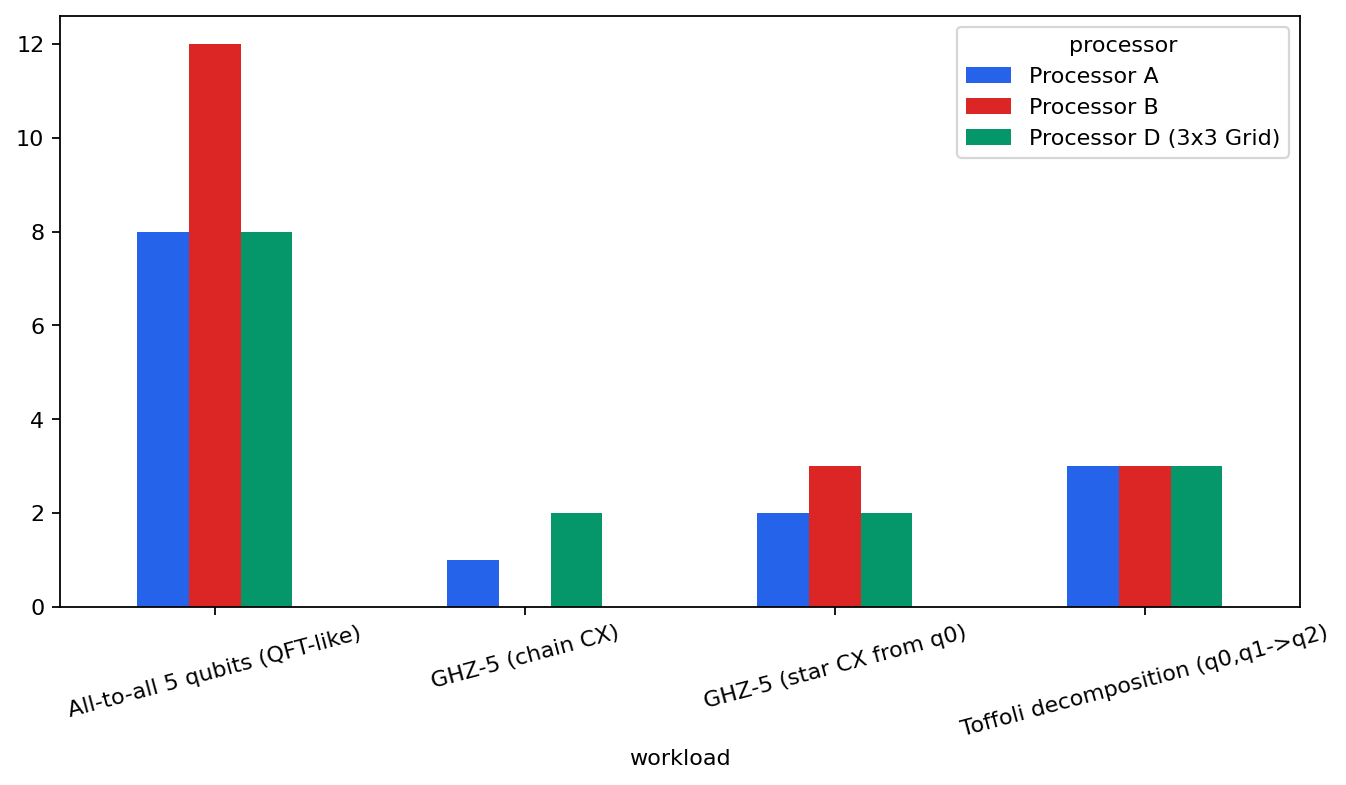
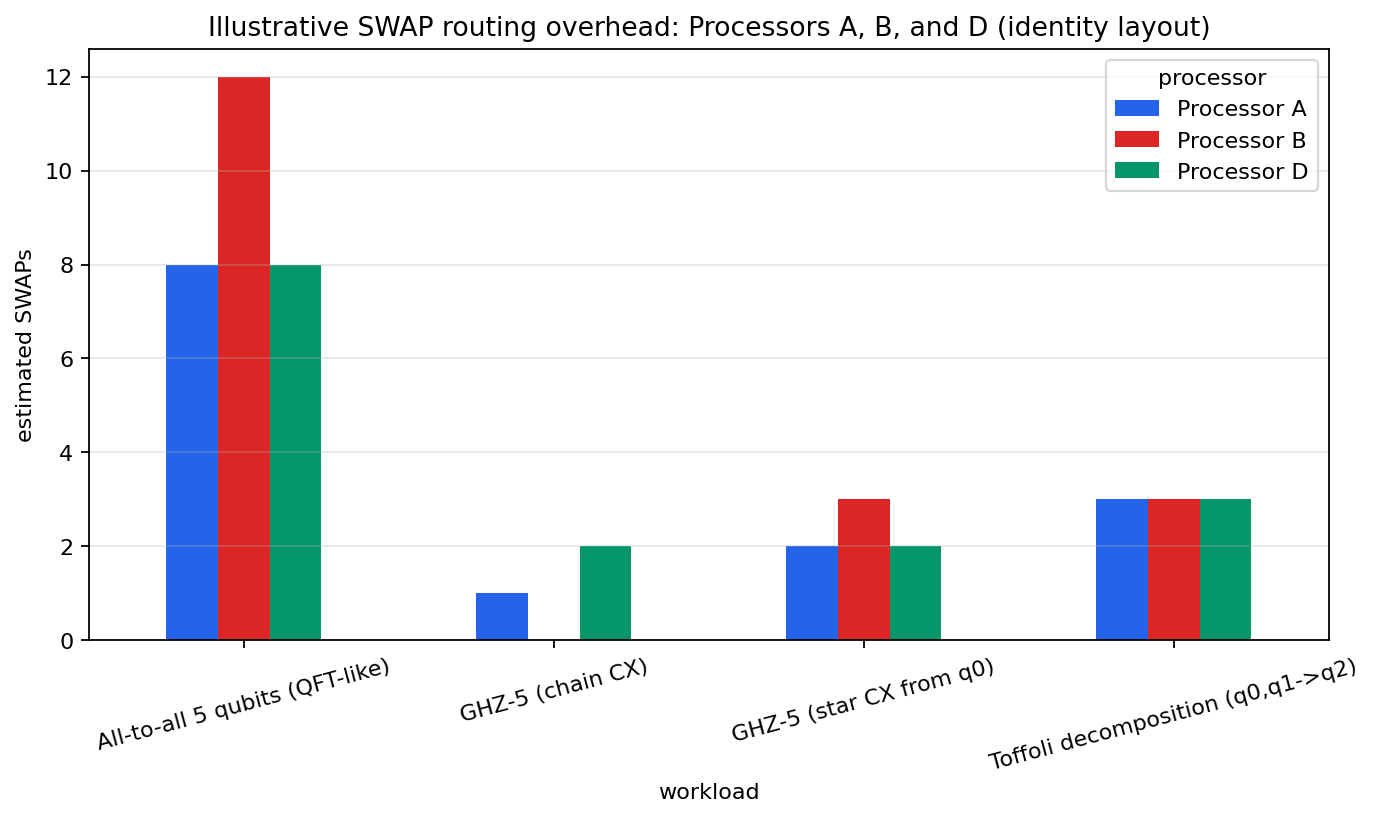
refactor(routing): eliminate duplicate topologies in routing estimate and metrics tables
- Streamline routing_estimate.csv from 36 to 12 rows across Processors A, B, and D
- Remove redundant 3x3 grid duplicate from processor_graph_metrics.csv
- Update fig_routing in visualization.py to directly plot cleaned processor list
- Synchronize code size metrics and logical line counts in report.md

diff --git a/src/routing.py b/src/routing.py
@@ -198,7 +198,7 @@ def processor_graph_table() -> pd.DataFrame:
             continue
         rows.append({"processor": f"Candidate A: {t_info['name']}", "required": False, **graph_metrics(build_graph(t_info["coupling_map"], 5))})
     for t_key, t_info in CANDIDATE_TOPOLOGIES["B"].items():
-        if t_key == "mesh_baseline":
+        if t_key in ("mesh_baseline", "grid_3x3"):
             continue
         rows.append({"processor": f"Candidate B: {t_info['name']}", "required": False, **graph_metrics(build_graph(t_info["coupling_map"], 9))})
     rows.append({"processor": "Processor C (study only)", "required": False, **graph_metrics(build_graph(PROCESSOR_C_STUDY, 13))})
@@ -292,32 +292,19 @@ ILLUSTRATIVE_WORKLOADS = {
 
 def routing_estimate_table() -> pd.DataFrame:
     rows = []
-    for key in ("A", "B"):
+    for key in ("A", "B", "D"):
         proc = load_processor(key)
         g = build_graph(proc["coupling_map"], proc["num_qubits"])
         for name, gates in ILLUSTRATIVE_WORKLOADS.items():
             sw = greedy_swap_count(g, gates)
-            rows.append({"workload": name, "processor": f"Processor {key}", "logical_2q_gates": len(gates),
-                         "swaps_estimate": sw, "cx_estimate": len(gates) + 3 * sw,
-                         "method": f"identity layout, {proc.get('topology', 'custom')}"})
-    # Comparative candidate analysis as requested by organizers
-    proc_d = load_processor("D")
-    topos_to_compare = [
-        ("A - 2016 Reference (Required)", CANDIDATE_TOPOLOGIES["A"]["reference_2016"]["coupling_map"], 5),
-        ("A - Chain (optional candidate)", CANDIDATE_TOPOLOGIES["A"]["chain_baseline"]["coupling_map"], 5),
-        ("A - Ring (optional candidate)", CANDIDATE_TOPOLOGIES["A"]["ring"]["coupling_map"], 5),
-        ("B - Mesh-Loop (Required)", CANDIDATE_TOPOLOGIES["B"]["mesh_baseline"]["coupling_map"], 9),
-        ("B - Sparse Tree (optional candidate)", CANDIDATE_TOPOLOGIES["B"]["tree_sparse"]["coupling_map"], 9),
-        ("B - 3x3 Grid (optional candidate)", CANDIDATE_TOPOLOGIES["B"]["grid_3x3"]["coupling_map"], 9),
-        ("D - 3x3 Grid (team design)", proc_d["coupling_map"], proc_d["num_qubits"]),
-    ]
-    for topo_name, cm, nq in topos_to_compare:
-        g = build_graph(cm, nq)
-        for name, gates in ILLUSTRATIVE_WORKLOADS.items():
-            sw = greedy_swap_count(g, gates)
-            rows.append({"workload": name, "processor": topo_name, "logical_2q_gates": len(gates),
-                         "swaps_estimate": sw, "cx_estimate": len(gates) + 3 * sw,
-                         "method": "candidate comparison"})
+            rows.append({
+                "workload": name,
+                "processor": f"Processor {key}",
+                "logical_2q_gates": len(gates),
+                "swaps_estimate": sw,
+                "cx_estimate": len(gates) + 3 * sw,
+                "method": f"identity layout, {proc.get('topology', 'custom')}",
+            })
     return pd.DataFrame(rows)
 
 

diff --git a/src/visualization.py b/src/visualization.py
@@ -222,16 +222,17 @@ def fig_routing() -> Path | None:
     df = _csv("routing_estimate.csv")
     if df is None or df.empty:
         return None
-    valid = ["Processor A", "Processor B", "D - 3x3 Grid (team design)"]
+    valid = ["Processor A", "Processor B", "Processor D"]
     df = df[df.processor.isin(valid)].copy()
     if df.empty:
         return None
-    rename_map = {"D - 3x3 Grid (team design)": "Processor D (3x3 Grid)"}
-    df["processor"] = df["processor"].replace(rename_map)
     piv = df.pivot(index="workload", columns="processor", values="swaps_estimate")
-    cols = [c for c in ["Processor A", "Processor B", "Processor D (3x3 Grid)"] if c in piv.columns]
+    cols = [c for c in ["Processor A", "Processor B", "Processor D"] if c in piv.columns]
     piv = piv[cols]
     ax = piv.plot.bar(figsize=(10, 4.8), color=["#2563eb", "#dc2626", "#059669"], rot=15)
+    ax.set_ylabel("estimated SWAPs")
+    ax.set_title("Illustrative SWAP routing overhead: Processors A, B, and D (identity layout)")
+    ax.grid(axis="y", alpha=0.3)
     # Save AB-only baseline comparison
     cols_ab = [c for c in ["Processor A", "Processor B"] if c in piv.columns]
     if cols_ab:

diff --git a/report.md b/report.md
@@ -72,7 +72,7 @@ The hybrid combiner (concatenate both secrets, then HKDF with the transcript) fo
 * **Bytes exchanged:** every byte the client sends and receives, including 4-byte frame headers.
 * **RAM:** Python-heap peak (`tracemalloc`) while moving the payload, plus process RSS growth. The heap peak is the primary number because
   RSS growth hides small working sets when the allocator reuses pages.
-* **Code size:** logical (non-blank, non-comment) lines per module; regenerated after the backend and topology updates: `process.py` has 698 lines and `src/` totals 1,982 lines (`results/tables/code_size.csv`).
+* **Code size:** logical (non-blank, non-comment) lines per module; regenerated after the backend and topology updates: `process.py` has 698 lines and `src/` totals 1,971 lines (`results/tables/code_size.csv`).
 * Payloads: organizer files in `data/raw/` are used if present; otherwise deterministic stand-ins of 1 KB, 100 KB and 10 MB (seed 42).
 
 ## 4. Results
